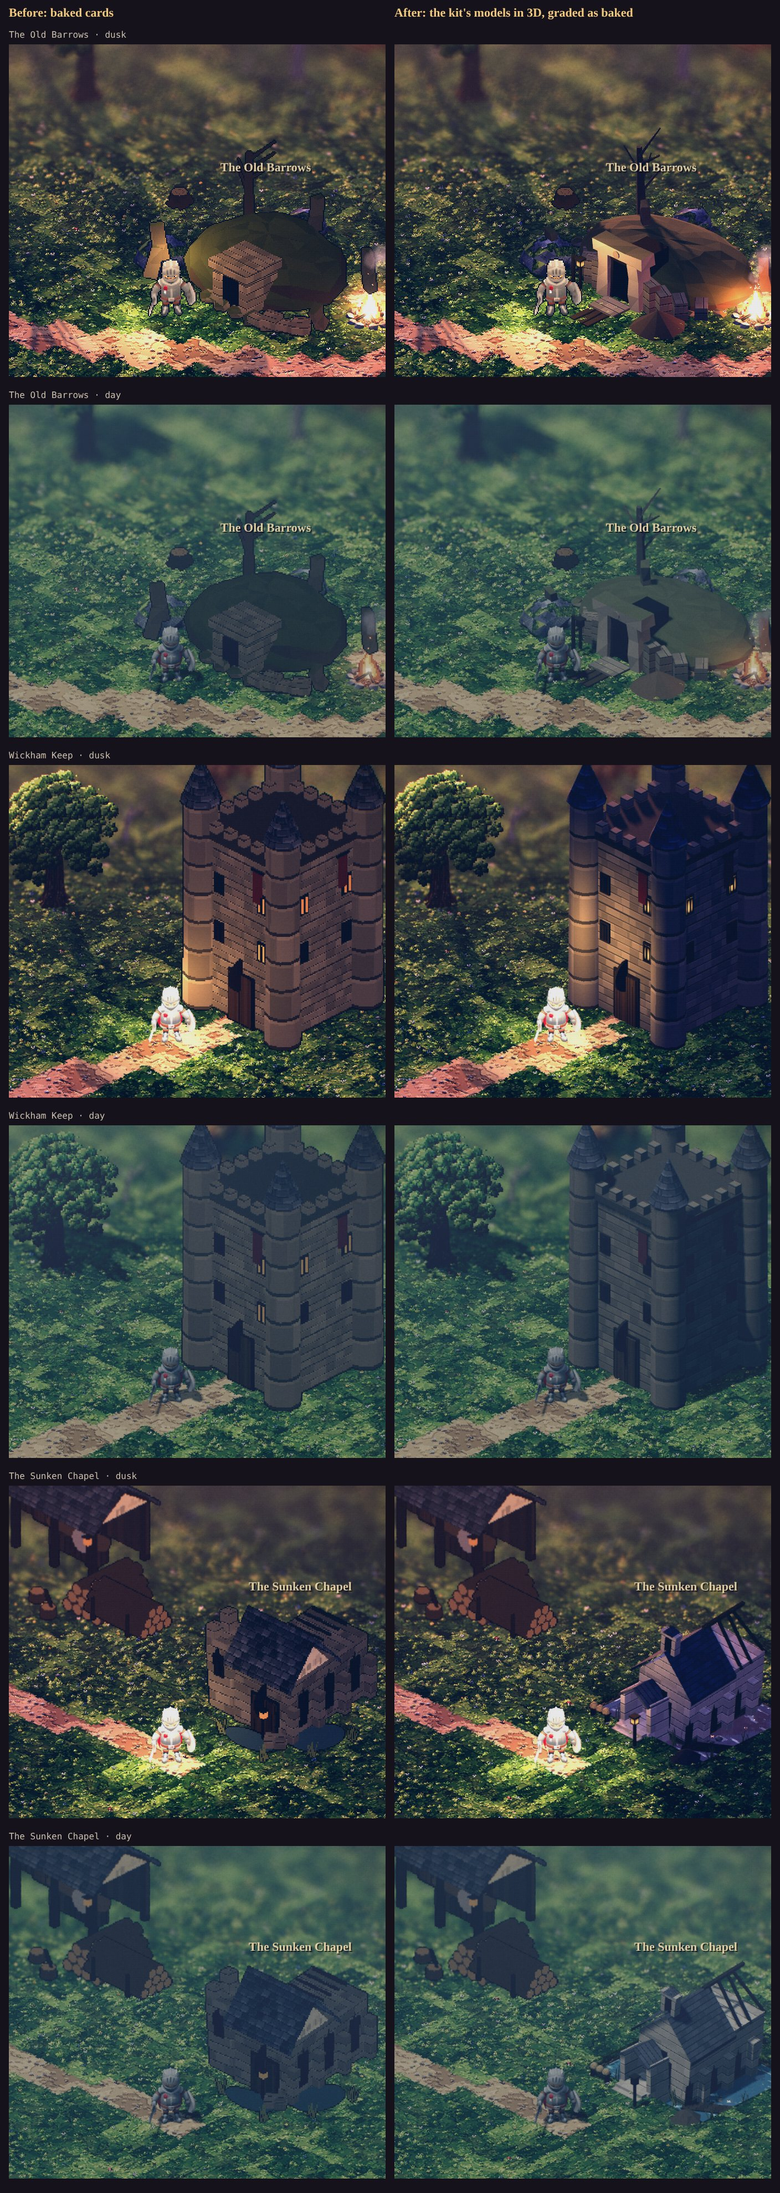
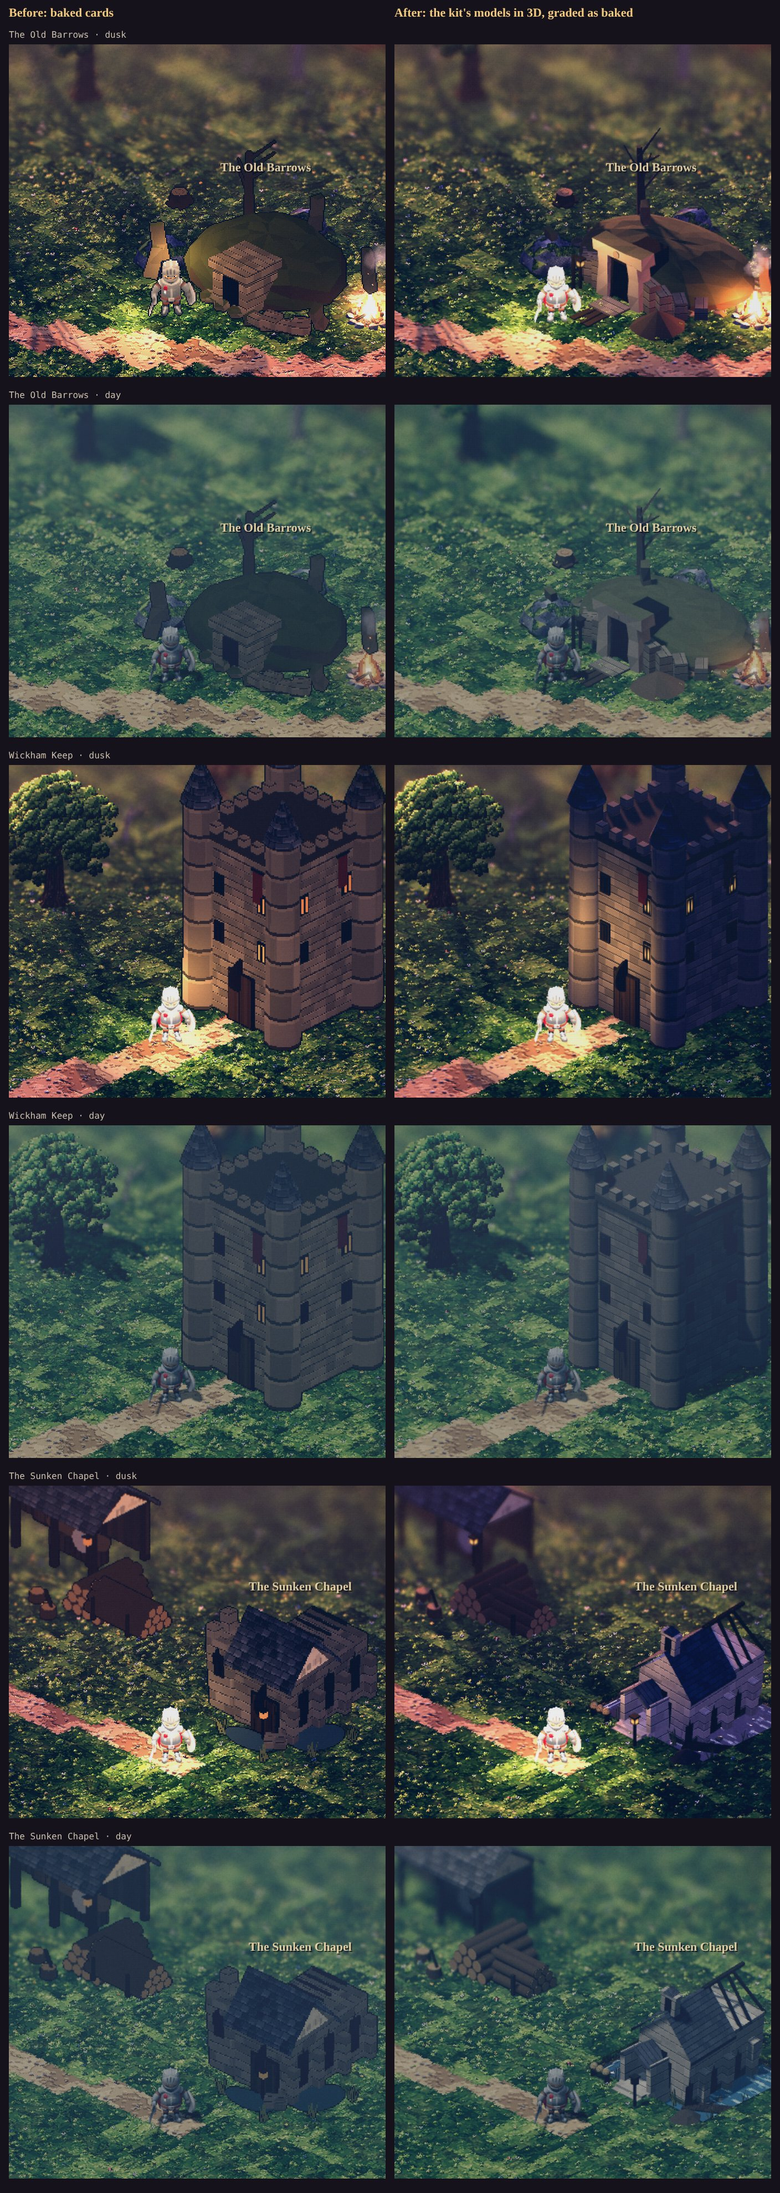
Vale landmarks #3 as the owner chose: the Vale's kit in 3D, Thornwick's palisade a card from inside
The owner, on the before/after sheets: "Go with your recommendations on #3."

- ?landmarks= defaults to `chosen`: every Vale kit piece stands in 3D (Thornwick from outside: its palisade,
  towers and gatehouse; the Tithe Mill, the lumber camp, the mine, the ninth milestone, the Scrag Warren; the
  carts, trough and woodpile in town) but the ones convert.js marks `card`: Thornwick's palisade, towers and
  gatehouse in the town's own scene, where the model shows its shaded face and the tower reads as a block.
  doors | all | sprites stay for comparison.
- The slate roofs' blue at dusk (Thornwick's gatehouse roof, blue/red 1.90, its card 1.46): neither more
  desaturation nor a warm tint on the roof's albedo moved it (1.90 -> 1.90), so it's the world's dusk light and
  air, as on Luminati's own roofs; left as the world draws it (the tries are not kept).
- Browser suite: in Thornwick the palisade pieces are cards and the rest of the kit stands in 3D ({kit: 10,
  wall: 0}); outside, the gate and the mill stand in 3D. The render3d block passes locally; npm run check passes.

Measured (default): the Vale overland 32 kit pieces, 37,514 tris, 236 draws scene-wide; on screen at a phone's
390 x 844: Thornwick's gate 5 pieces / 11,666 tris / 53 draws, the lumber camp 4 / 4,480 / 41, the Keep
2 / 3,222 / 36, the chapel 4 / 3,562 / 44. Thornwick 10 pieces, 4,908 tris, 41 draws (every piece in 3D:
[…]

diff --git a/tools/render3d/world.js b/tools/render3d/world.js
@@ -229,10 +229,12 @@ function sweepFigures() {
 // the same design, lit and shadowed by the world (docs/vale-landmarks-proposal.md; the owner, 2026-11-10: "the old
 // design for the Keep actually looks OK - can we keep this, and are those tile assets re-usable for our overall asset
 // catalogue?" — one catalogue). One kit unit is ten of our tiles, five of Luminati's units. Which pieces (?landmarks=):
-//   'doors' (the default): the Vale's three dungeon doors, the Keep, the Old Barrows and the Sunken Chapel;
-//   'all': every kit piece of the Vale's (the owner chooses the rest, before or after: the proposal's question 3);
+//   'chosen' (the default, the owner's choices: the proposal's §8): every kit piece of the Vale's but the ones convert.js
+//     marks `card` (Thornwick's palisade, towers and gatehouse seen from inside the town);
+//   'doors': the Vale's three dungeon doors alone, the Keep, the Old Barrows and the Sunken Chapel;
+//   'all': every kit piece of the Vale's, cards and all;
 //   'sprites': the baked sprites, as before.
-let envSprites = [], LANDMARKS = 'doors';
+let envSprites = [], LANDMARKS = 'chosen';
 const KIT_UNIT = 5, KIT_LIFT = 1.3, KIT = new Map(), KIT_MADE = new Map();
 for (const e of ENV_LIST) if (e.build) KIT.set(e.id, e);
 for (const list of Object.values(TOWN_SETS)) for (const e of list) if (e.build) KIT.set(e.id, e);
@@ -252,6 +254,8 @@ function kitPiece(e, x, y, z) {
   // takes its card's palette; not the bake's gain, which answers the bake's own bright lights: the world lights it
   // here, and an albedo lift (KIT_LIFT) brings it to its card's brightness (Wickham Keep at dusk: luma 40 at the gain,
   // 51 lifted, its card 64.5; saturation 0.59 → 0.57, the card 0.36)
+  // (The slate roofs' blue at dusk is the world's dusk light and air, not their albedo: a stronger desaturation or a warm
+  // tint on a roof moved Thornwick's gatehouse roof, blue over red 1.90, not at all; Luminati's own roofs take it too.)
   const desat = e.desat ?? 0.3, gain = KIT_LIFT, tint = e.tint || [0.95, 0.92, 1.0], gkey = `kitgrade:${desat},${gain},${tint}`;
   const grade = (m) => {
     const c = m.clone();
@@ -297,7 +301,7 @@ async function placeEnv(list, region) {
   for (const p of list) {
     if (p.canvas) { standOurs(p); continue; }
     const kit = KIT.get(p.id), vale = (region || 'vale') === 'vale';
-    if (kit && vale && (LANDMARKS === 'all' || (LANDMARKS === 'doors' && DOORS.has(p.id)))) {
+    if (kit && vale && (LANDMARKS === 'all' || (LANDMARKS === 'chosen' && !p.card) || (LANDMARKS === 'doors' && DOORS.has(p.id)))) {
       // (on the ground round it, not the tile under its middle: the chapel stands in water the converter laid under it)
       const H = (dx, dz) => game.tileMap.getHeight(p.x + dx, p.z + dz), y = Math.max(H(0, 0), H(0, 3), H(0, -3), H(3, 0), H(-3, 0));
       const g = kitPiece(kit, p.x, y, p.z);
@@ -1050,7 +1054,7 @@ const api = {
     if (o.figLit > 0) FIG_LIT = o.figLit;
     if (o.figMax > 0) FIG_MAX = o.figMax;
     if (o.figures === 'models' || o.figures === 'sprites') FIGURES = o.figures;
-    if (['doors', 'all', 'sprites'].includes(o.landmarks)) LANDMARKS = o.landmarks;   // (?landmarks=: our kit's pieces in 3D, placeEnv)   // (?figures=sprites: the atlases, as before 4b)
+    if (['chosen', 'doors', 'all', 'sprites'].includes(o.landmarks)) LANDMARKS = o.landmarks;   // (?landmarks=: our kit's pieces in 3D, placeEnv)   // (?figures=sprites: the atlases, as before 4b)
     const S = game?.postfx?.settings;
     // 'soft': the prototype's eased lens (its view.js): a band most of the screen tall, 16 units of depth in focus, so the
     // square is sharp and the far roofs and the near hedges a little soft; 'off': everything sharp

diff --git a/src/render3d/hybrid.js b/src/render3d/hybrid.js
@@ -248,7 +248,7 @@ export async function attachLuminati({ renderer, sim, region = 'vale', vendor = 
   const mod = await import(vendor);
   api = mod.createWorld({ container: box, uiRoot: ui, assets: new URL('../../assets/', import.meta.url).href });
   api.settings({ dof: readGraphics().dof, figures: new URLSearchParams(location.search).get('figures') === 'sprites' ? 'sprites' : 'models',
-    landmarks: ['all', 'sprites'].includes(new URLSearchParams(location.search).get('landmarks')) ? new URLSearchParams(location.search).get('landmarks') : 'doors' });   // (?landmarks=all|sprites: our kit's pieces in 3D, docs/vale-landmarks-proposal.md)   // (?figures=sprites: the atlases, as before the models: docs/dungeon-kit-proposal.md §9)
+    landmarks: ['doors', 'all', 'sprites'].includes(new URLSearchParams(location.search).get('landmarks')) ? new URLSearchParams(location.search).get('landmarks') : 'chosen' });   // (?landmarks=doors|all|sprites: which of our kit's pieces stand in 3D, docs/vale-landmarks-proposal.md §8)   // (?figures=sprites: the atlases, as before the models: docs/dungeon-kit-proposal.md §9)
   let dial = readGraphics().bright;                              // (the menu's Brightness tray: a percentage a part, ui/brightness.js)
   return {
     box, state,

diff --git a/src/render3d/convert.js b/src/render3d/convert.js
@@ -210,7 +210,9 @@ function outdoor(w, region) {
   const look = REGION_LOOK[region] || {};
   for (const s of w.structs) {
     const id = s.id, p = foot(s);
-    if (timber && p && inside(p.cx, p.cz, -4) && /_curtainy?_\d|_tower_\d|_gatehousey?_\d/.test(id)) { sprites.push({ id, x: X(s.x), z: Z(s.y) }); continue; }   // (the palisade: ours, on its bank)
+    // (the palisade: ours, on its bank; inside a town a card, the owner's choice: from inside, the model shows its shaded
+    // face and its tower reads as a block: docs/vale-landmarks-proposal.md §8)
+    if (timber && p && inside(p.cx, p.cz, -4) && /_curtainy?_\d|_tower_\d|_gatehousey?_\d/.test(id)) { sprites.push({ id, x: X(s.x), z: Z(s.y), ...(w.hub ? { card: true } : {}) }); continue; }
     if (!p || !inside(p.cx, p.cz) || /_curtainy?_\d|_tower_\d|_gatehousey?_\d|^mountain_|^ug_/.test(id)) {
       if (/^ug_flowers/.test(id) && (B === BIOMES.grassland || B === BIOMES.vale) && p && inside(p.cx, p.cz) && !raised(p.cx, p.cz)) tiles[Math.floor(p.cz)][Math.floor(p.cx)] = 'f';
       continue;

diff --git a/docs/README.md b/docs/README.md
@@ -53,7 +53,7 @@ the header of each status doc for what it replaces.
 | [reach-heights-overlands.md](./reach-heights-overlands.md) | The Cinder Reach's and the Pale Heights' own overlands, laid out on their sketches: Ashgate where three imperial roads meet, Kell's Rest under the dead volcano, the Cinderworks and their tailings up the Ashwater; Frosthold in its pass, the frozen Sol, the Stair from the Frozen Hospice to the crater's Lip, the crater's glass; each land's own ground; what's deliberately not built | **Implemented as previews** (2026-10-31): `src/sim/outdoor.js` (`buildReach`, `buildHeights`), `src/render/outdoorpaint.js`, `test/reach-heights.test.mjs`; `?scene=overland&region=reach\|heights` |
 | [lumina-prototype.md](./lumina-prototype.md) | Another world: Luminati's HD-2D dioramas (MIT, three.js: light, shadow, depth of field, water, weather, the hour) walked by Emberfall's own people. The player, the party and every villager drawn from our baked atlases as they are (a build-time swap of Luminati's character painter, our portraits in its dialogue), six of its worlds, touch controls added. Then Emberfall's own: Thornwick converted from our sim, a catalogue of every world asset the engine builds, and an autobattle encounter (Brannoc, Wren and a Guild cleric against the hill goblins, our goblins drawn in). The main game's view by default: our 45° yaw, 30° pitch and near-orthographic lens, and our eight facings. The ground cover at a quarter of its size, and no floating luminous dots. A dungeon, the Old Barrows, whose Quartermaster stands his fallen back up and whose lantern you wake at; and the game's own player cards along the bottom in every fight, upright and sideways. The catalogue's second wing: all 290 pieces of Emberfall's own world art and item icons standing in Luminati's world. How it's built, what's rough, what's next | **Superseded** (removed 2026-11-09, [luminati-only-cleanup.md](./luminati-only-cleanup.md) step 2: the game's own Luminati replaced it): was `/lumina/` and `tools/lumina/`; its ground cover lives on as `tools/render3d/ground.js`; architecture A16 |
 | [luminati-only-cleanup.md](./luminati-only-cleanup.md) | Luminati only (the owner, 2026-11-09: stick with Luminati and its current fx and assets): an audit of what Luminati mode still runs on (Emberlit's camera, animator, overlay, taps and the effects' light) and what can go (≈ 780 lines of world painting, two modules, the prototype, a declined spike, ≈ 119 MB of normal, emissive and key atlases), the options players see, tools, tests and docs; the order of work and four questions, answered (the recommendations); step 1 built: Luminati the only renderer, a message and Retry if it can't start (`ui/worldfail.js`), A21; step 2: the prototype and the kit spike removed; step 3: the normal, glow and depth-key atlases (118 MB) removed, loaders and bakers first; step 4: Emberlit's world painting (≈ 850 lines of renderer.js, two modules), the escape, `?tierlooks` and the Stage's painted views removed, the browser suite on Luminati with a budget (`?world=off`) | **Implemented** (2026-11-09: all five steps) |
-| [vale-landmarks-proposal.md](./vale-landmarks-proposal.md) | The Vale's dungeon doors to the new art standard: our env catalogue is code (`tools/actor-lab/buildkit.js`) and stands in Luminati's world as itself (`world.js` `kitPiece`: merged, graded as baked, `?landmarks=doors|all|sprites`); Wickham Keep kept, the Old Barrows and the Sunken Chapel redesigned in the kit, the chapel's marsh as the world's water (`convert.js`); a landmark standard for every map; the rest of the Vale's cards before/after for the owner's choice (§8) | **Approved, #1 #2 #4 Implemented** (2026-11-10); #3 awaiting the owner |
+| [vale-landmarks-proposal.md](./vale-landmarks-proposal.md) | The Vale's landmarks to the new art standard: our env catalogue is code (`tools/actor-lab/buildkit.js`) and stands in Luminati's world as itself (`world.js` `kitPiece`: merged, graded as baked); Wickham Keep kept, the Old Barrows and the Sunken Chapel redesigned in the kit, the chapel's marsh as the world's water (`convert.js`); the rest of the Vale's kit in 3D as the owner chose it, Thornwick's palisade a card from inside (`?landmarks=chosen|doors|all|sprites`); a landmark standard for every map | **Implemented** (2026-11-10) |
 | [luminati-port-plan.md](./luminati-port-plan.md) | Replacing Emberlit with Luminati as the game's renderer, seen through Emberfall's iso camera: the sim, UI, story, sound and saves untouched (so no balance or replay number can move); a `src/render3d/` adapter on the same renderer contract behind `?renderer=`; every map (four towns, the waystations, the overlands, the 11 dungeon sites per seed and floor, the Mere Tower) built at runtime from the sim's world; both asset sets kept in reserve, the choice per struct a data table; gates for frame rate, memory and load; ten phases from a spike to the cutover. The owner's choices (§11: depth of field a menu setting, the Reach and Heights designed as their own lands, the Frontier left out, stop at the trial), and phase 0, the trial build (§12): the game itself with Luminati drawing the world under Emberlit's HUD and taps, every map converted at runtime, the camera within 1.4 px of Emberlit's. Committed to Luminati (§13): the next steps, the engine in the page first, then the fights; and the biomes (§14): the Reach in Luminati's desert tiles, the Heights in its snow and ice, a Biomes map in the prototype | **Plan of record; phase 0 built** (2026-10-31): menu → Graphics → Luminati, or `?renderer=luminati`; `src/render3d/` (settings.js, convert.js, hybrid.js), `tools/render3d/` (world.js, build.mjs) → `src/vendor/luminati-80e1aa6/`, `renderer.setExternal`; step 1 done (§13); the people as models at 3× (2026-11-09, [dungeon-kit-proposal.md](./dungeon-kit-proposal.md) §9.6, A20); the Brightness dial by the part of the day, menu → Graphics → Brightness (§13; `render3d/bright.js`, `ui/brightness.js`); architecture A17 (accepted) |
 | [frontier-proposal.md](./frontier-proposal.md) | The Frontier: the Old Provinces as one overland, 100× the Vale (2520 × 5040 tiles, laid out from the wall map), in chunks made on demand. Terrain (ranges with passes, rivers with bridges, woods, marsh, ash, snow, the crater); a designed level map (control points in each region's band, safer by the roads, harder in the wild and at the dungeons' mouths); camps on a 20-tile grid with respawn timers, linked camps, aggro, leash and the con's edge; only the 64 tiles round the party awake; the stick explores and letting go locks the whole screen to autobattle in, the party pulling as a group; zoom from the game's scale to the wall map. Measured difficulty and XP a minute (§6) | **Proposal**, with a playable proof of concept (2026-10-20): `/frontier.html`, `src/sim/frontier/`, `src/frontier/`, `test/frontier.test.mjs`, `tools/balance/frontier.mjs` |
 | [worldmap-travel-proposal.md](./worldmap-travel-proposal.md) | The World map (a globe) under the Journal; the map sheet's two tabs (the Old Provinces wall map with fog and reached towns; the region's map drawn from the sim in the wall map's hand, with Walk there); the Guild's coach between reached towns from a tavern, its fare graph, the `coach` command, `state.reached` and save v28; mockup [worldmap-mockup.html](./worldmap-mockup.html) | **Implemented** (2026-10-10, as recommended; the button a globe, set lower): `src/sim/coach.js`, `src/ui/worldmap.js`, `src/ui/wallmap.js`, save v28; GDD v1.43 §10 |

diff --git a/docs/vale-landmarks-proposal.md b/docs/vale-landmarks-proposal.md
@@ -1,6 +1,6 @@
 # The Vale's landmarks: the dungeon doors to the new art standard
 
-**Status: Approved (2026-11-10); #1, #2 and #4 Implemented, #3 awaiting the owner's choice per piece** (§7, §8). The
+**Status: Implemented (2026-11-10): all four, #3 as the owner chose it per piece** (§7, §8). The
 owner: *"phone performance and looks are good. Let's continue to focus on the MVP with the Thornwick map, so we can
 extend the same standards and criteria (world assets like trees, relative placements, dungeon entrances/art, etc.) to
 other maps. First, the entrances to the dungeons dont look good and are not up to the new art standards (old barrow,
@@ -155,8 +155,8 @@ clock (`tools/capture/rig.mjs … --query landmarks=doors`).*
     at dusk, luma over the keep: the card 64.5, the model at the bake's gain 39.9, ungraded 45.1, lifted 51.0. By day
     the card is 63.5 and the lifted model 56.9.
   - **On the ground round it,** not the tile under its middle (the chapel stands in water).
-  - **`?landmarks=doors|all|sprites`:** `doors` is the default (the three doors); `all` is every Vale kit piece (§8);
-    `sprites` is every piece as its card, as before.
+  - **`?landmarks=chosen|doors|all|sprites`:** `chosen` is the default (the owner's choice, §8); `doors` is the three
+    doors alone; `all` is every Vale kit piece; `sprites` is every piece as its card, as before.
 - **The Old Barrows** (`buildkit.js` `barrow`), as §4 designed it:
   - a long, low turfed mound with a kerb round its foot;
   - a portal of three rough faceted stones facing the exit, the Legion's shield on the lintel;
@@ -194,31 +194,55 @@ clock (`tools/capture/rig.mjs … --query landmarks=doors`).*
     footprints. The next bake picks them up. The chapel's pool is `bakeOnly`, so its card keeps water.
   - **The Keep's door torches** (Luminati's wall torch). The door's own lit windows and the brazier light it for now.
 
-## 8. #3: the rest of the Vale's cards, for the owner to choose
+## 8. #3: the rest of the Vale's cards, as the owner chose
 
-The owner: *"let me see your proposed changes to #3 before implementing - let me choose before or after."* Nothing
-here is the default: `?landmarks=all` shows it.
+The owner: *"let me see your proposed changes to #3 before implementing - let me choose before or after."* Then, on the
+sheets: *"Go with your recommendations on #3."*
 
-![The rest of the Vale's kit pieces, cards and models, at dusk](img/landmarks/vale-kit-choices-dusk.jpg)
+![The rest of the Vale's kit pieces, cards and as chosen, at dusk](img/landmarks/vale-kit-chosen-dusk.jpg)
 
-([by day](img/landmarks/vale-kit-choices-day.jpg))
+([by day](img/landmarks/vale-kit-chosen-day.jpg); the sheets the owner chose from, with every piece in 3D:
+[dusk](img/landmarks/vale-kit-choices-dusk.jpg), [day](img/landmarks/vale-kit-choices-day.jpg))
 
-| # | Piece | Recommendation | Why |
+| # | Piece | Chosen | Why |
 |---|---|---|---|
-| 1 | Thornwick from outside: the palisade, its towers and the gatehouse | **After** | The braziers light the gate's timbers and the posts take the light; it stands, where the card leans flat. The slate roofs still read blue at dusk, so a stronger desaturation goes on the roofs if chosen. |
-| 2 | The Tithe Mill | After | The same design, lit; its wheel in the race reads |
-| 3 | The lumber camp (the mill, the log stack, the stumps) | After | The log stack reads as logs and the stumps stand |
-| 4 | The mine | After (marginal) | The hill and its shed are in shade either way; lit from the sun's side |
-| 5 | The ninth milestone | Either | Small: the same stone |
-| 6 | The Scrag Warren | After | The adit's timbers and the torn boards read as depth, not paint |
-| 7 | Inside Thornwick: the palisade and a tower | **Before** | From inside, the wall's face to the camera is its shaded side, and the tower reads as a black block. The card shows the lit face. |
-| 8 | Inside Thornwick: the gatehouse | **Before** | As 7 |
+| 1 | Thornwick from outside: the palisade, its towers and the gatehouse | **3D** | The braziers light the gate's timbers and the posts take the light; it stands, where the card leans flat |
+| 2 | The Tithe Mill | 3D | The same design, lit; its wheel in the race reads |
+| 3 | The lumber camp (the mill, the log stack, the stumps) | 3D | The log stack reads as logs and the stumps stand |
+| 4 | The mine | 3D | Marginal: the hill and its shed are in shade either way |
+| 5 | The ninth milestone | 3D | Either would do; 3D for one catalogue |
+| 6 | The Scrag Warren | 3D | The adit's timbers and the torn boards read as depth, not paint |
+| 7 | Inside Thornwick: the palisade and a tower | **Card** | From inside, the wall's face to the camera is its shaded side, and the tower reads as a black block; the card shows the lit face |
+| 8 | Inside Thornwick: the gatehouse | **Card** | As 7 |
 
-**The cost of `all`,** measured in the game (scene-wide, before the camera's culling):
-- **The Vale overland:** 32 kit pieces, 37,514 triangles, 236 draws.
-- **Thornwick:** 42 pieces, 43,700 triangles, 176 draws.
+**As built:**
+- `?landmarks=` now defaults to `chosen`: every Vale kit piece in 3D except the ones `convert.js` marks `card`.
+  Those are Thornwick's palisade, towers and gatehouse in the town's own scene (a world with a `hub`).
+- Thornwick's other kit pieces (the carts, the trough, the woodpile) stand in 3D too.
+- `doors`, `all` and `sprites` stay for comparison.
+- The browser suite checks both halves: in Thornwick the palisade pieces are cards and the rest of the kit stands in
+  3D; outside, the gate and the mill stand in 3D.
 
-A screen holds a few of them at a time. Before any of it becomes the default, it gets checked on a phone.
+**The slate roofs at dusk.** The 3D slate roofs look bluer at dusk than their cards. On Thornwick's gatehouse roof,
+blue over red is 1.90 against the card's 1.46. Neither more desaturation nor a warm tint on the roof's albedo moved it
+(1.90 → 1.90), so it is the world's dusk light and air, which Luminati's own roofs take too, not the roof's colour.
+It is left as the world draws it.
+
+**The cost,** measured in the game:
+- **Scene-wide:**
+  - the Vale overland: 32 kit pieces, 37,514 triangles, 236 draws;
+  - Thornwick: 10 pieces, 4,908 triangles, 41 draws. With every piece in 3D it was 42 pieces, 43,700 triangles and
+    176 draws.
+- **On screen** (the overland, at the phone's 390 × 844, meshes whose middle is in view):
+
+  | Where | Pieces | Triangles | Draws |
+  |---|---|---|---|
+  | Thornwick's gate | 5 | 11,666 | 53 |
+  | The lumber camp | 4 | 4,480 | 41 |
+  | Wickham Keep | 2 | 3,222 | 36 |
+  | The Sunken Chapel | 4 | 3,562 | 44 |
+
+**To check on a real phone,** the owner's: walking out of Thornwick's gate, the overland's busiest view.
 
 ## The spike, in the code
 

diff --git a/AGENTS.md b/AGENTS.md
@@ -24,7 +24,7 @@ npm ci                                    # once: dev tooling only (the game its
 npm run serve                             # open http://localhost:8080 (ES modules need a server)
 #   ?slot=1|2|3 (game slot)  ?scene=town|overland|dungeon (preview: starts fresh, never saves)
 #   ?world=off|on (localhost only, kept for the tab: no world drawn, an empty painter in Luminati's place; the browser suite's flow checks run so, its world checks ask for &world=on: docs/luminati-only-cleanup.md step 4)
-#   ?landmarks=doors|all|sprites (the Vale's kit pieces, tools/actor-lab/buildkit.js, stood in 3D: doors (default) the Keep, the Old Barrows and the Sunken Chapel; all every kit piece the converter keeps (the owner's choice, docs/vale-landmarks-proposal.md §6.3); sprites all as baked cards, as before)
+#   ?landmarks=doors|all|sprites (which of the Vale's kit pieces, tools/actor-lab/buildkit.js, stand in 3D; default: the owner's choice, every one but Thornwick's palisade seen from inside the town, docs/vale-landmarks-proposal.md §8; doors the three dungeon doors alone; all every piece; sprites all as baked cards, as before)
 #   ?figures=sprites (the people as their atlas sprites, as before they were models: docs/dungeon-kit-proposal.md §9.6)
 #   ?notitle (skip the splash, loading screen and title and play at once; tests and captures)
 #   ?region=vale|fens|reach|heights  ?site=barrows|wickham_keep|sunken_chapel|ninth_milestone|toadking_mound|canal_locks|drowned_abbey|… (with ?scene=dungeon; sim/sites.js)
